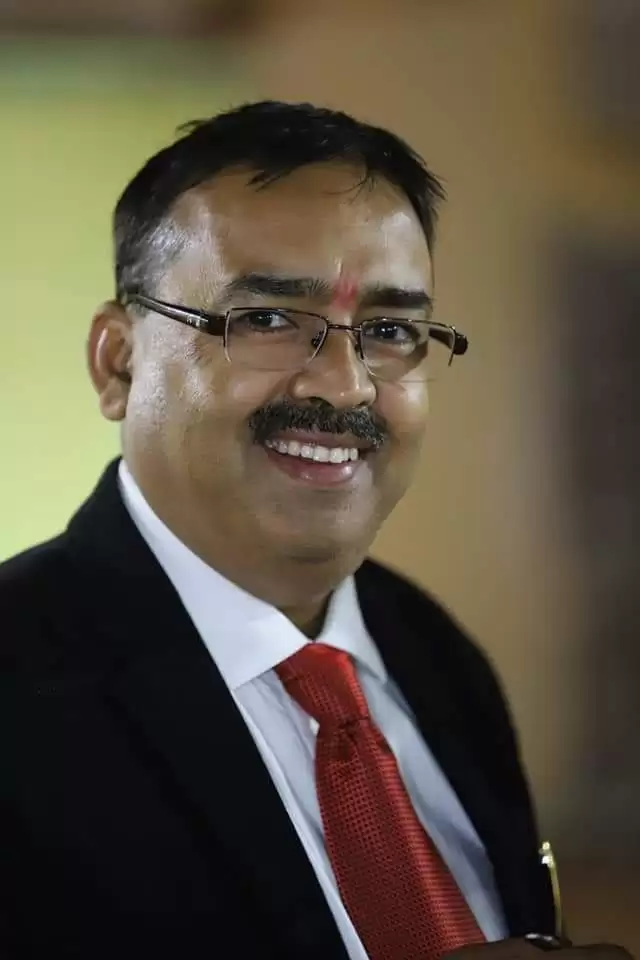
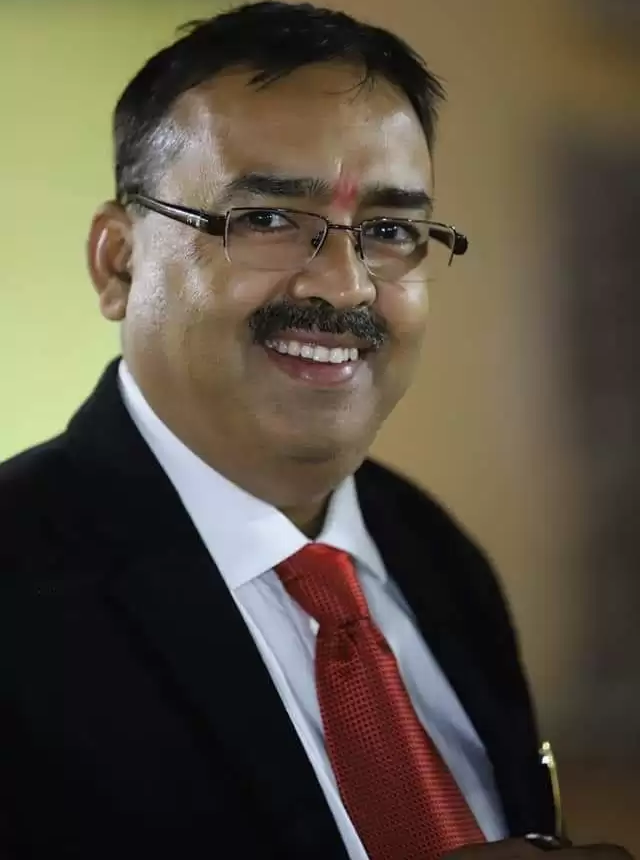
Fixed convenor's Image

diff --git a/vite-project/src/components/FacultyCard.jsx b/vite-project/src/components/FacultyCard.jsx
@@ -20,7 +20,7 @@ const FacultyCard = ({ person, isLightTheme }) => {
             <img
               src={person.img}
               alt={person.name}
-              className="w-32 h-32 rounded-full border-4 border-white mb-3 object-cover object-center"
+              className="w-32 h-32 rounded-full border-4 border-white mb-3 object-cover object-top"
             />
           ) : (
             <div className="w-32 h-32 rounded-full border-4 border-white mb-3 bg-gray-300 flex items-center justify-center text-gray-600 text-lg font-bold">
